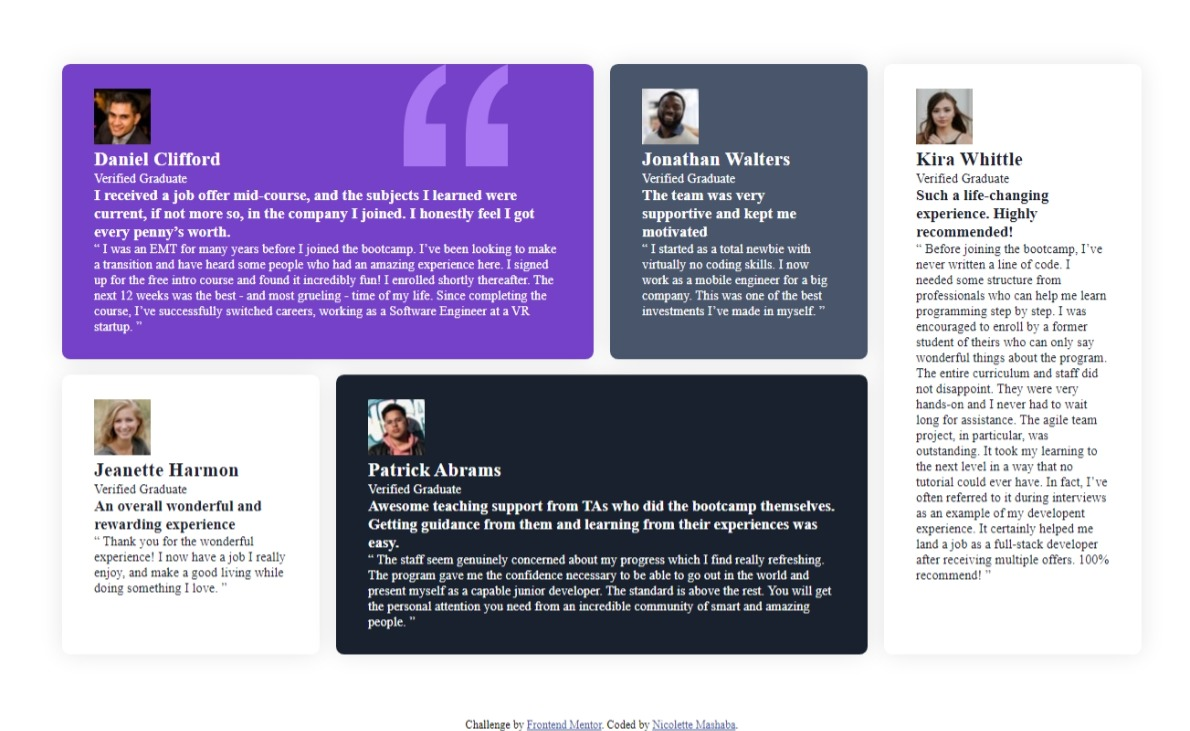
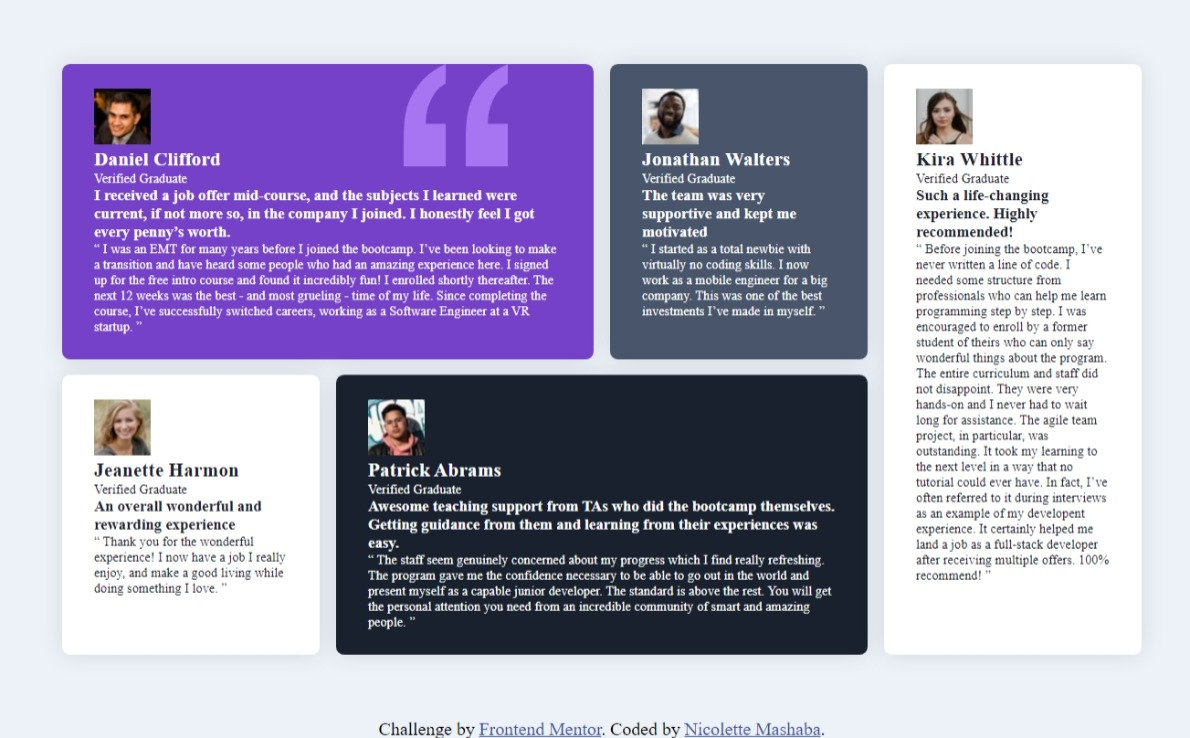
new screenshot

diff --git a/style.css b/style.css
@@ -125,7 +125,7 @@ main{
     --border-clr: hsl(217, 19%, 35%, 0.5);
   }
   .attribution { 
-    font-size: 11px; 
+    font-size: 18px; 
     text-align: center; 
 }
 
